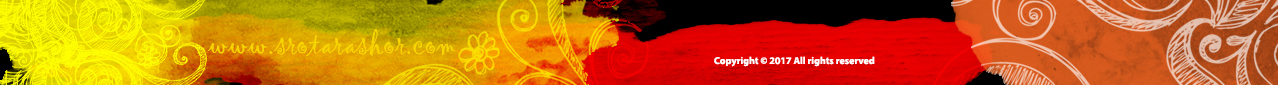
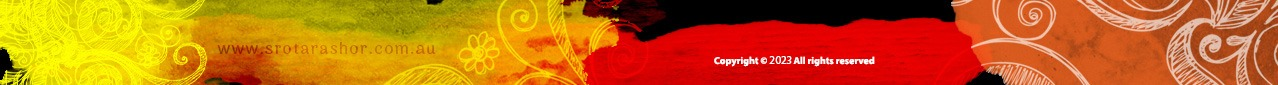
major updates for 2023

diff --git a/events.html b/events.html
@@ -126,9 +126,9 @@ function MM_swapImage() { //v3.0
           <tr>
             <td colspan="3" align="center" valign="middle"><p>&nbsp;</p>
             <div class="contentdiv">
-            <img src="2023-01.jpeg" width="1200" height="950" />
+            <img src="2023-01.jpeg" width="940" height="700" />
             </div>
-              <h1>“Amader Gaan”- A celebration of the words and melodies of Srotar Ashor’s very own creative minds.</h1>
+              <h1>“Amader Gaan”</h1>
               <p>Saturday, 28th of October, 2023<span class="bold"></span><br/>
             </p>
               <p>Time: 5:00 pm to 7:15 pm<br/>
@@ -146,26 +146,26 @@ function MM_swapImage() { //v3.0
           <tr>
             <td colspan="3" align="center" valign="middle" class="event-head">Recent Events</td>
             </tr>
-            <tr>
-             <td colspan="2" align="center" valign="middle" class="event-head"><img src="events/20171028 - Studio 90.jpg" width="300" height="422" alt=""/></td>
-             <td><h2>Studio 90</h2>
-               <p>October 28, 2017<br/>
-                 5:00 pm to 7:30 pm<br/>
-                 Chandler Community Centre<br/>
+          <tr>
+            <td colspan="2" align="center" valign="middle" class="event-head"><img src="events/lokogan2023.jpg" width="300" height="211" alt=""/></td>
+            <td><h2>Boichitre Bohoman Lokogaan</h2>
+              <p>June 17, 2023<br/>
+                5:00 pm to 7:15 pm<br/>
+                Chandler Community Centre<br/>
                 Keysborough, Victoria</p></td>
-           </tr>
-			<tr>
-             <td colspan="2" align="center" valign="middle" class="event-head"><img src="events/20170729 - Troie - poster.png" width="300" height="211" alt=""/></td>
-             <td><h2>Troie</h2>
-               <p>July 29, 2017<br/>
+          </tr>
+            <tr>
+             <td colspan="2" align="center" valign="middle" class="event-head"><img src="events/bangladesherhridoyhote.jpeg" width="300" height="211" alt=""/></td>
+             <td><h2>Bangladesher Hridoy Hote</h2>
+               <p>October 15, 2022<br/>
                  5:00 pm to 7:30 pm<br/>
-                 Chandler Community Centre<br/>
-                Keysborough, Victoria</p></td>
+                 The Edge, Federation Square<br/>
+                Melbourne, Victoria</p></td>
            </tr>
             <tr>
-             <td colspan="2" align="center" valign="middle" class="event-head"><img src="events/20170304 - SJJ.jpg" width="300" height="383" alt=""/></td>
-             <td><h2>Shure Jhore Jochhona</h2>
-               <p>March 04, 2017<br/>
+             <td colspan="2" align="center" valign="middle" class="event-head"><img src="events/egaankhali2022.jpg" width="300" height="211" alt=""/></td>
+             <td><h2>E Gaan Khani Rekhe Jai</h2>
+               <p>May 28, 2022<br/>
                  5:00 pm to 7:30 pm<br/>
                  Chandler Community Centre<br/>
                 Keysborough, Victoria</p></td>
@@ -177,7 +177,26 @@ function MM_swapImage() { //v3.0
           <tr>
             <td colspan="3" align="center" valign="middle"><span class="event-head">Event Archive</span></td>
             </tr>
-
+          <tr>
+            <td align="center" valign="middle" class="event-head">2023</td>
+            <td colspan="2" align="left" valign="middle"> Boichitre Bohoman Lokogaan (17th June)</td>
+          </tr>
+          <tr>
+            <td align="center" valign="middle" class="event-head">2022</td>
+            <td colspan="2" align="left" valign="middle"> E Gaan Khani Rekhe Jai (28th May), Bangladesher Hridoy Hote (15th October)</td>
+          </tr>
+          <tr>
+            <td align="center" valign="middle" class="event-head">2019</td>
+            <td colspan="2" align="left" valign="middle"> Projonmo (16th March), Jonmohin Nokhkhotro | In loving memory of Ayub Bachchu (19th October)</td>
+          </tr>
+          <tr>
+            <td align="center" valign="middle" class="event-head">2018</td>
+            <td colspan="2" align="left" valign="middle"> Terekete (3rd March), Smritir Baksho (4th August), Na Fera Shondhar Gaan (27th October)</td>
+          </tr>
+          <tr>
+            <td align="center" valign="middle" class="event-head">2017</td>
+            <td colspan="2" align="left" valign="middle"> Shure Jhore Jocchona (4th March), Troie (29th July), Studio 90 (28th October)</td>
+          </tr>
 		  <tr>
             <td align="center" valign="middle" class="event-head">2016</td>
             <td colspan="2" align="left" valign="middle"> Tomar Pore Thekai Matha (5th March), Muhurto Gulo (6th August), Lokogiti Local (5th November)</td>
@@ -199,11 +218,11 @@ function MM_swapImage() { //v3.0
             <td colspan="2" align="left" valign="middle">Bauliana: Gorai Theke Dirai (3rd March), Badol Diner Prothom Kodom Phool (23rd June), Gaane Gaane Char Doshok (13th October)</td>
           </tr>
           <tr>
-            <td width="10%" align="center" valign="middle" class="event-head">2011</td>
+            <td align="center" valign="middle" class="event-head">2011</td>
             <td colspan="2" align="left" valign="middle"><p>Jagoroner Gaan (5th March), Band Baddi (9th July), Koler Gaan (15th October) </p></td>
             </tr>
           <tr>
-            <td width="10%" align="center" valign="middle" class="event-head">2010</td>
+            <td align="center" valign="middle" class="event-head">2010</td>
             <td colspan="2" align="left" valign="middle"><p>Pach Bochor Purti Utshob (27th March), Ekobingsho (25th September)</p></td>
             </tr>
           <tr>

diff --git a/contact.html b/contact.html
@@ -96,22 +96,23 @@ function MM_swapImage() { //v3.0
           <table width="100%" border="0" cellspacing="0" cellpadding="0">
             <tr>
               <td width="8%" align="center" valign="middle"><a href="mailto:info@srotarashor.com" target="_blank"><img src="images/email-us.png" width="43" height="43" border="0" /></a></td>
-              <td width="92%"> <h3> 4 Naroo Court,
-                Glen Waverley<br />
-                VIC 3150,                 Australia</h3></td>
+<!--              <td width="92%"> <h3> 4 Naroo Court,-->
+<!--                Glen Waverley<br />-->
+<!--                VIC 3150,                 Australia</h3></td>-->
+              <td><h3><a href="mailto:info@srotarashor.com.au" style=" color: white; ">info@srotarashor.com.au</a></h3></td>
             </tr>
             <tr>
               <td align="center" valign="middle">&nbsp;</td>
               <td>&nbsp;</td>
             </tr>
-            <tr>
-              <td align="center" valign="middle"><a href="mailto:info@srotarashor.com" target="_blank"><img src="images/email-us.png" alt="" width="43" height="43" border="0" /></a></td>
-              <td><h3><a href="mailto:srotarashor@gmail.com" style=" color: white; ">srotarashor@gmail.com</a></h3></td>
-            </tr>
+<!--            <tr>-->
+<!--              <td align="center" valign="middle"><a href="mailto:info@srotarashor.com" target="_blank"><img src="images/email-us.png" alt="" width="43" height="43" border="0" /></a></td>-->
+<!--              <td><h3><a href="mailto:info@srotarashor.com.au" style=" color: white; ">info@srotarashor.com.au</a></h3></td>-->
+<!--            </tr>-->
           </table>
           <h3>&nbsp;</h3>
 <p><a href="http://www.facebook.com/srotarashor" target="_blank"><img src="images/fbbadge.png" alt="fb" width="235" height="78" border="0" longdesc="images/fbbadge.png" /></a></p>
-<p>Copyright © Srotar Ashor, 2021. All Rights Reserved.<br />
+<p>Copyright © Srotar Ashor, 2023. All Rights Reserved.<br />
   ABN: 82 528 328 946</p></td>
         </tr>
     </table></td>
